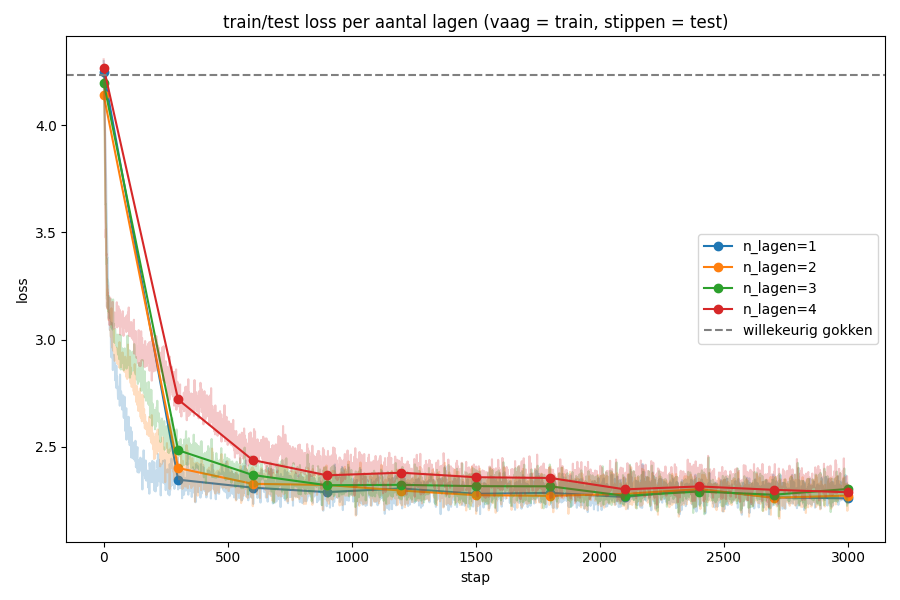
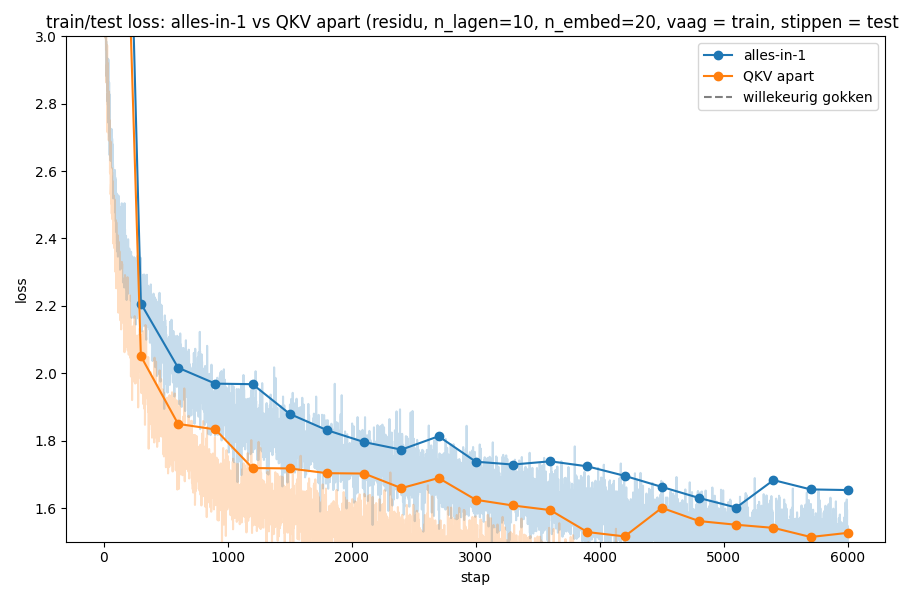
more gpt

diff --git a/experiment/exp.py b/experiment/exp.py
@@ -51,50 +51,123 @@ class AffiniteitsLaag(nn.Module):
     """Eén stackbare attention-laag: neemt (batch, T, n_embed) en geeft ook
     (batch, T, n_embed) terug, zodat je er meerdere achter elkaar kunt zetten.
 
-    In plaats van aparte Q- en K-matrices (zoals bij echte attention)
-    gebruiken we hier maar één geleerde matrix W: elke vector wordt ermee
-    geprojecteerd, en de affiniteit tussen positie i en j is simpelweg het
-    inproduct van hun projecties. Hoog inproduct = de vectors wijzen dezelfde
-    kant op = hoge affiniteit. Een causaal masker zorgt dat positie i alleen
-    naar i en eerder mag kijken (je mag het antwoord niet vooruit zien).
+    Met `losse_qk=False` (default) gebruiken we net als voorheen maar één
+    gedeelde matrix W voor zowel "wie zoek ik" als "wie bied ik aan": elke
+    vector wordt ermee geprojecteerd, en de affiniteit tussen positie i en j
+    is het inproduct van die ene projectie met zichzelf. Nadeel daarvan
+    (zoals we eerder zagen): het inproduct van een vector met zichzelf is
+    vrijwel altijd het grootst, dus elke positie let vooral op zichzelf.
+    Met `losse_qk=True` krijgen Q en K allebei hun eigen matrix, zodat "waar
+    ik naar zoek" en "wat ik aanbied" losgekoppeld zijn.
 
-    De V (value) is voorlopig nog gelijk aan diezelfde geprojecteerde g —
-    later los te trekken in een eigen matrix, net als W nu al apart is van
-    de ruwe input.
+    Met `losse_v=False` (default) is de V (value) nog gelijk aan diezelfde
+    projectie die ook voor de affiniteit gebruikt wordt. Met `losse_v=True`
+    krijgt V zijn eigen geleerde matrix — dan is "waar let ik op" (affiniteit)
+    ook losgekoppeld van "wat neem ik mee" (value).
+
+    losse_qk=True + losse_v=True samen is het volledige Q/K/V zoals bij echte
+    attention; allebei False is de "alles-in-1"-versie waarmee we begonnen.
     """
 
-    def __init__(self, n_embed):
+    def __init__(self, n_embed, losse_qk=False, losse_v=False):
         super().__init__()
         self.n_embed = n_embed
-        self.W = nn.Linear(n_embed, n_embed, bias=False)  # de ene gedeelde matrix
+        self.losse_qk = losse_qk
+        if losse_qk:
+            self.Q = nn.Linear(n_embed, n_embed, bias=False)
+            self.K = nn.Linear(n_embed, n_embed, bias=False)
+        else:
+            self.W = nn.Linear(n_embed, n_embed, bias=False)  # de ene gedeelde matrix
+        self.V = nn.Linear(n_embed, n_embed, bias=False) if losse_v else None
 
     def forward(self, h):
         # h: (batch, T, n_embed) -> ook weer (batch, T, n_embed), dus stackbaar
         T = h.shape[1]
-        g = self.W(h)               # (batch, T, n_embed), geprojecteerd
-        affiniteit = g @ g.transpose(-2, -1)           # (batch, T, T), inproduct per paar
+        if self.losse_qk:
+            q = self.Q(h)
+            k = self.K(h)
+            affiniteit = q @ k.transpose(-2, -1)  # (batch, T, T), inproduct query x key
+            basis = q  # terugvaloptie voor v, als losse_v uitstaat
+        else:
+            q = k = self.W(h)               # (batch, T, n_embed), geprojecteerd
+            affiniteit = q @ k.transpose(-2, -1)           # (batch, T, T), inproduct per paar
+            basis = q
         affiniteit = affiniteit / self.n_embed ** 0.5   # schaling, zoals bij echte attention
 
         masker = torch.triu(torch.ones(T, T, dtype=torch.bool), diagonal=1)
         affiniteit = affiniteit.masked_fill(masker, float("-inf"))  # niet vooruitkijken
 
         gewichten = torch.softmax(affiniteit, dim=-1)  # per rij: kansen die optellen tot 1
-        v = g  # de value is nu nog dezelfde g als hierboven, nog niet losgetrokken
+        v = self.V(h) if self.V is not None else basis  # losse matrix op h, of terugval
         output = gewichten @ v  # (batch, T, n_embed), gewogen mix van de v's
         return output, gewichten
 
 
-class AffiniteitsModel(nn.Module):
-    """Embedding -> n_lagen stackbare AffiniteitsLaag'en -> voorspelling per letter."""
+class FeedForwardLaag(nn.Module):
+    """Verlaagt de dimensie (delen door 4), niet-lineariteit, en weer terug naar
+    n_embed. Ook stackbaar: (batch, T, n_embed) -> (batch, T, n_embed). Werkt
+    per positie apart (geen menging tussen posities, dat doet de attention-laag)."""
 
-    def __init__(self, vocab_size, n_embed=12, n_lagen=1):
+    def __init__(self, n_embed):
         super().__init__()
+        self.net = nn.Sequential(
+            nn.Linear(n_embed, n_embed // 4),
+            nn.ReLU(),
+            nn.Linear(n_embed // 4, n_embed),
+        )
+
+    def forward(self, h):
+        return self.net(h)
+
+
+class Blok(nn.Module):
+    """Eén stackbaar blok: een AffiniteitsLaag, optioneel gevolgd door een
+    FeedForwardLaag. (batch, T, n_embed) -> (batch, T, n_embed).
+
+    Beide sub-lagen zijn residu-verbindingen: h = h + sublaag(h), niet
+    h = sublaag(h). Zo kan een nog-niet-getrainde (of destructieve, zoals de
+    smalle feedforward-bottleneck) sublaag zich gedragen als bijna-niks-doen,
+    in plaats van verplicht alles te vervangen wat er al in h zat.
+    """
+
+    def __init__(self, n_embed, gebruik_feedforward=False, losse_qk=False, losse_v=False):
+        super().__init__()
+        self.attentie = AffiniteitsLaag(n_embed, losse_qk=losse_qk, losse_v=losse_v)
+        self.feedforward = FeedForwardLaag(n_embed) if gebruik_feedforward else None
+
+    def forward(self, h):
+        attentie_uit, gewichten = self.attentie(h)
+        h = h + attentie_uit  # residu
+        if self.feedforward is not None:
+            h = h + self.feedforward(h)  # ook residu
+        return h, gewichten
+
+
+class AffiniteitsModel(nn.Module):
+    """Embedding -> n_lagen stackbare AffiniteitsLaag'en -> voorspelling per letter.
+
+    Zonder positie-informatie weet de affiniteit alleen "lijkt dit karakter op
+    dat karakter", niet "hoe ver terug stond het". Met `gebruik_positie=True`
+    krijgt elke positie 0..T-1 zijn eigen geleerde vector (net als de letters
+    dat hebben), opgeteld bij de letter-embedding — zodat het model afstand
+    kan leren meewegen.
+    """
+
+    def __init__(self, vocab_size, n_embed=12, n_lagen=1, gebruik_positie=True, gebruik_feedforward=False, losse_qk=False, losse_v=False, max_lengte=128):
+        super().__init__()
+        self.gebruik_positie = gebruik_positie
         self.embed = nn.Embedding(vocab_size, n_embed)
-        self.lagen = nn.ModuleList([AffiniteitsLaag(n_embed) for _ in range(n_lagen)])
+        if gebruik_positie:
+            self.pos_embed = nn.Embedding(max_lengte, n_embed)
+        self.lagen = nn.ModuleList([Blok(n_embed, gebruik_feedforward, losse_qk, losse_v) for _ in range(n_lagen)])
         self.uit = nn.Linear(n_embed, vocab_size)  # enige plek die naar vocab_size gaat
 
     def forward(self, x):
+        T = x.shape[1]
         h = self.embed(x)  # (batch, T, n_embed)
+        if self.gebruik_positie:
+            posities = torch.arange(T, device=x.device)
+            h = h + self.pos_embed(posities)  # zelfde vector voor elke positie i, over de hele batch
         for laag in self.lagen:
             h, gewichten = laag(h)  # zelfde vorm erin als eruit
         scores = self.uit(h)  # (batch, T, vocab_size), pas hier naar vocab_size
@@ -116,17 +189,28 @@ def genereer(model, tokenizer, start, n_nieuw=40, generator=None):
     return tokenizer.decode(ids[0].tolist())
 
 
-def train_affiniteitsmodel(n_lagen, train_ids, test_ids, tokenizer, n_stappen=3000, eval_interval=300, seed=0):
-    """Traint een AffiniteitsModel met `n_lagen` lagen en houdt de loss bij."""
+def train_affiniteitsmodel(n_lagen, n_embed, train_ids, test_ids, tokenizer, lengte=20, gebruik_positie=True, gebruik_feedforward=False, losse_qk=False, losse_v=False, lr=1e-2, n_stappen=3000, eval_interval=300, seed=0):
+    """Traint een AffiniteitsModel met `n_lagen` lagen, `n_embed` dimensies en context `lengte`, en houdt de loss bij.
+
+    De leerrate volgt een cosine-schema: begint op `lr` en zakt geleidelijk
+    naar ~0 aan het einde van de training. Vroeg in training mag je grote
+    stappen zetten, maar tegen het einde (dicht bij een minimum) duwt een
+    grote stap je er juist weer overheen — dat zagen we terug als ruis en
+    niet-monotone loss bij een vaste hoge leerrate.
+    """
     torch.manual_seed(seed)
-    model = AffiniteitsModel(tokenizer.vocab_size, n_embed=12, n_lagen=n_lagen)
-    optimizer = torch.optim.AdamW(model.parameters(), lr=1e-2)
+    model = AffiniteitsModel(
+        tokenizer.vocab_size, n_embed=n_embed, n_lagen=n_lagen,
+        gebruik_positie=gebruik_positie, gebruik_feedforward=gebruik_feedforward, losse_qk=losse_qk, losse_v=losse_v,
+    )
+    optimizer = torch.optim.AdamW(model.parameters(), lr=lr)
+    scheduler = torch.optim.lr_scheduler.CosineAnnealingLR(optimizer, T_max=n_stappen)
 
     train_losses = []
     test_stappen, test_losses = [], []
-    print(f"\ntrainen n_lagen={n_lagen} ({n_stappen} stappen)...")
+    print(f"\ntrainen n_lagen={n_lagen} n_embed={n_embed} lengte={lengte} positie={gebruik_positie} feedforward={gebruik_feedforward} losse_qk={losse_qk} losse_v={losse_v} ({n_stappen} stappen)...")
     for stap in range(n_stappen):
-        x_b, y_b = maak_batch(train_ids, lengte=20, aantal=64)
+        x_b, y_b = maak_batch(train_ids, lengte=lengte, aantal=64)
         scores_b, _ = model(x_b)
         loss_b = F.cross_entropy(scores_b.reshape(-1, tokenizer.vocab_size), y_b.reshape(-1))
         train_losses.append(loss_b.item())
@@ -134,16 +218,18 @@ def train_affiniteitsmodel(n_lagen, train_ids, test_ids, tokenizer, n_stappen=30
         optimizer.zero_grad()
         loss_b.backward()
         optimizer.step()
+        scheduler.step()
 
         if stap % eval_interval == 0 or stap == n_stappen - 1:
             with torch.no_grad():
-                x_t, y_t = maak_batch(test_ids, lengte=20, aantal=256)
+                x_t, y_t = maak_batch(test_ids, lengte=lengte, aantal=256)
                 scores_t, _ = model(x_t)
                 loss_t = F.cross_entropy(scores_t.reshape(-1, tokenizer.vocab_size), y_t.reshape(-1))
             test_stappen.append(stap)
             test_losses.append(loss_t.item())
+            huidige_lr = optimizer.param_groups[0]["lr"]
             sample = genereer(model, tokenizer, start="Pinkeltje ", n_nieuw=40)
-            print(f"  stap {stap:>5}  train loss {loss_b.item():.3f}  test loss {loss_t.item():.3f}  sample: {sample!r}")
+            print(f"  stap {stap:>5}  train loss {loss_b.item():.3f}  test loss {loss_t.item():.3f}  lr {huidige_lr:.5f}  sample: {sample!r}")
 
     return model, train_losses, test_stappen, test_losses
 
@@ -208,27 +294,31 @@ if __name__ == "__main__":
     train_ids, test_ids = ids_alles[:split], ids_alles[split:]
     print(f"\ntrain: {len(train_ids)} tekens, test: {len(test_ids)} tekens")
 
-    # train meerdere modellen met een verschillend aantal lagen, om te vergelijken
-    n_lagen_opties = [1, 2, 3, 4]
+    # n_lagen=10, n_embed=20, positie-embedding + feedforward aan (met residu)
+    # nu vergelijken: alles-in-1 (gedeelde W, v=g) tegenover los QKV
+    varianten = {"alles-in-1": dict(losse_qk=False, losse_v=False), "QKV apart": dict(losse_qk=True, losse_v=True)}
     resultaten = {}
-    for n_lagen in n_lagen_opties:
+    for naam, opts in varianten.items():
         _, train_losses, test_stappen, test_losses = train_affiniteitsmodel(
-            n_lagen, train_ids, test_ids, tokenizer, n_stappen=3000, eval_interval=300,
+            n_lagen=10, n_embed=20, train_ids=train_ids, test_ids=test_ids, tokenizer=tokenizer,
+            lengte=20, gebruik_positie=True, gebruik_feedforward=True, **opts,
+            n_stappen=6000, eval_interval=300,
         )
-        resultaten[n_lagen] = (train_losses, test_stappen, test_losses)
+        resultaten[naam] = (train_losses, test_stappen, test_losses)
 
-    # plotje: train/test loss per aantal lagen, in dezelfde kleur per model
+    # plotje: train/test loss, alles-in-1 vs QKV apart, in dezelfde kleur per model
     plt.figure(figsize=(9, 6))
     kleuren = plt.cm.tab10.colors
-    for i, n_lagen in enumerate(n_lagen_opties):
-        train_losses, test_stappen, test_losses = resultaten[n_lagen]
+    for i, naam in enumerate(varianten):
+        train_losses, test_stappen, test_losses = resultaten[naam]
         kleur = kleuren[i % len(kleuren)]
         plt.plot(range(len(train_losses)), train_losses, color=kleur, alpha=0.25)
-        plt.plot(test_stappen, test_losses, color=kleur, marker="o", label=f"n_lagen={n_lagen}")
+        plt.plot(test_stappen, test_losses, color=kleur, marker="o", label=naam)
     plt.axhline(max_loss.item(), color="gray", linestyle="--", label="willekeurig gokken")
+    plt.ylim(1.5, 3.0)  # inzoomen: de instabiele piek bij stap 0 drukt anders alle verschil plat
     plt.xlabel("stap")
     plt.ylabel("loss")
-    plt.title("train/test loss per aantal lagen (vaag = train, stippen = test)")
+    plt.title("train/test loss: alles-in-1 vs QKV apart (residu, n_lagen=10, n_embed=20, vaag = train, stippen = test)")
     plt.legend()
     plt.tight_layout()
     plot_pad = Path(__file__).parent / "loss.png"
